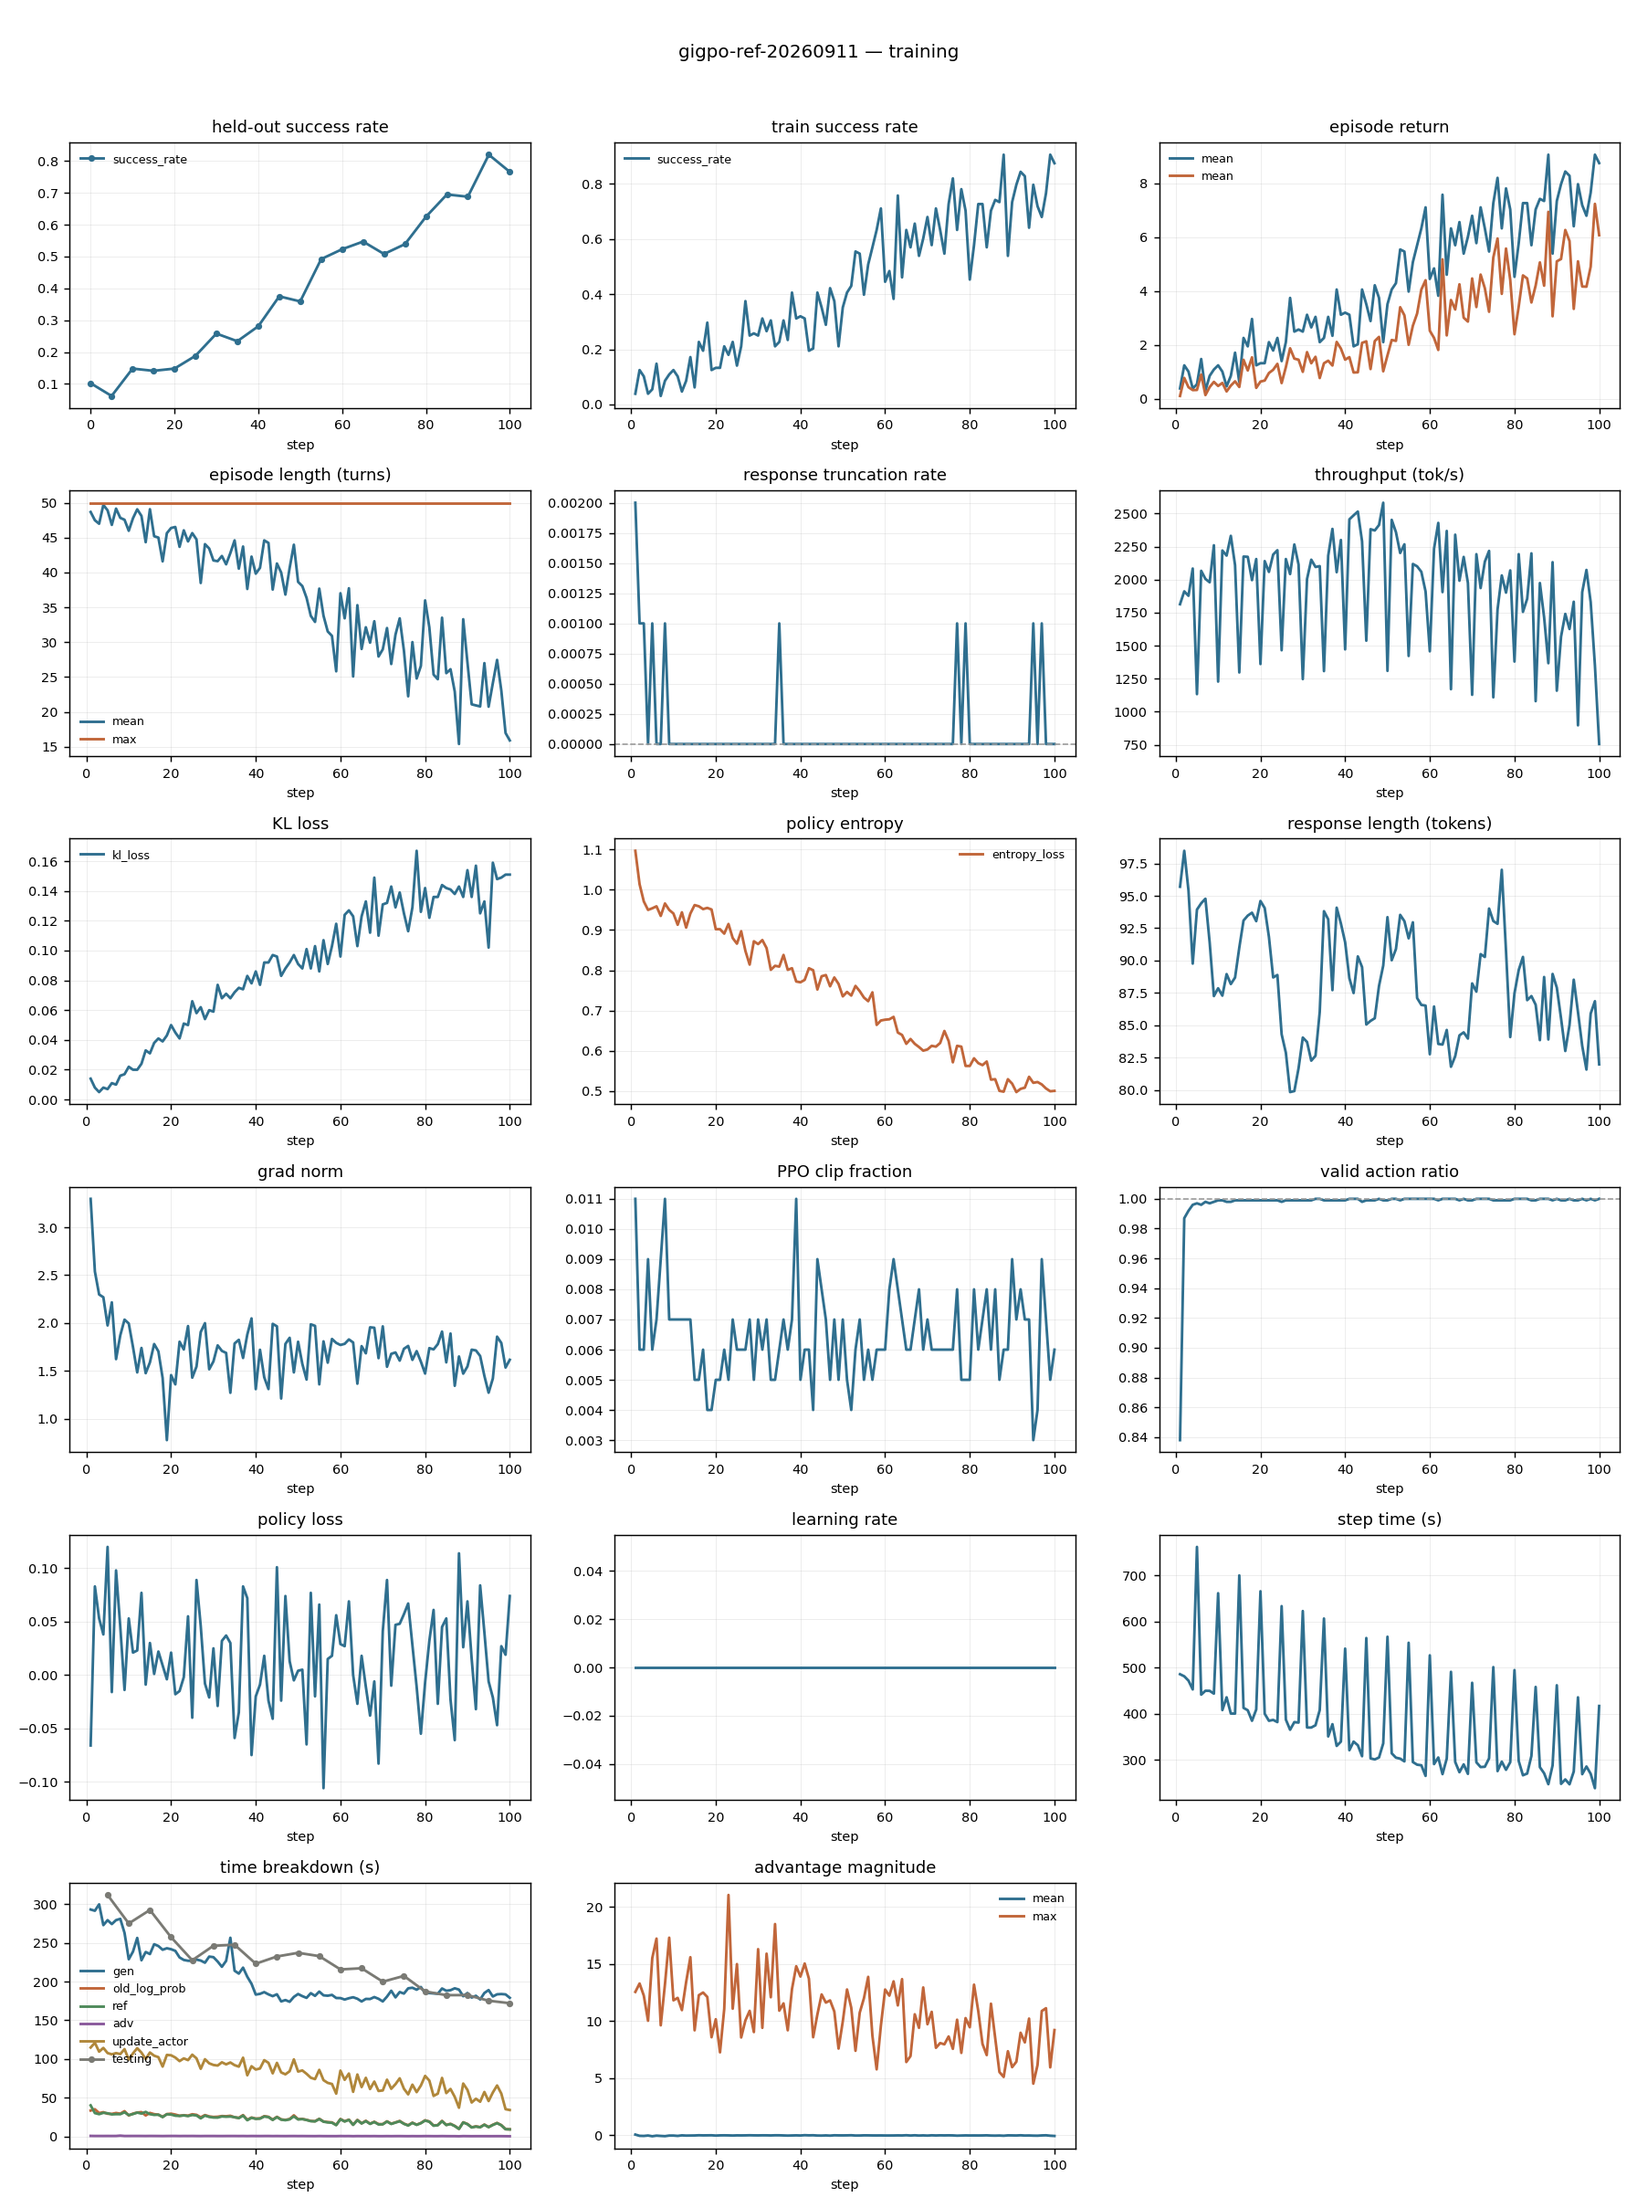
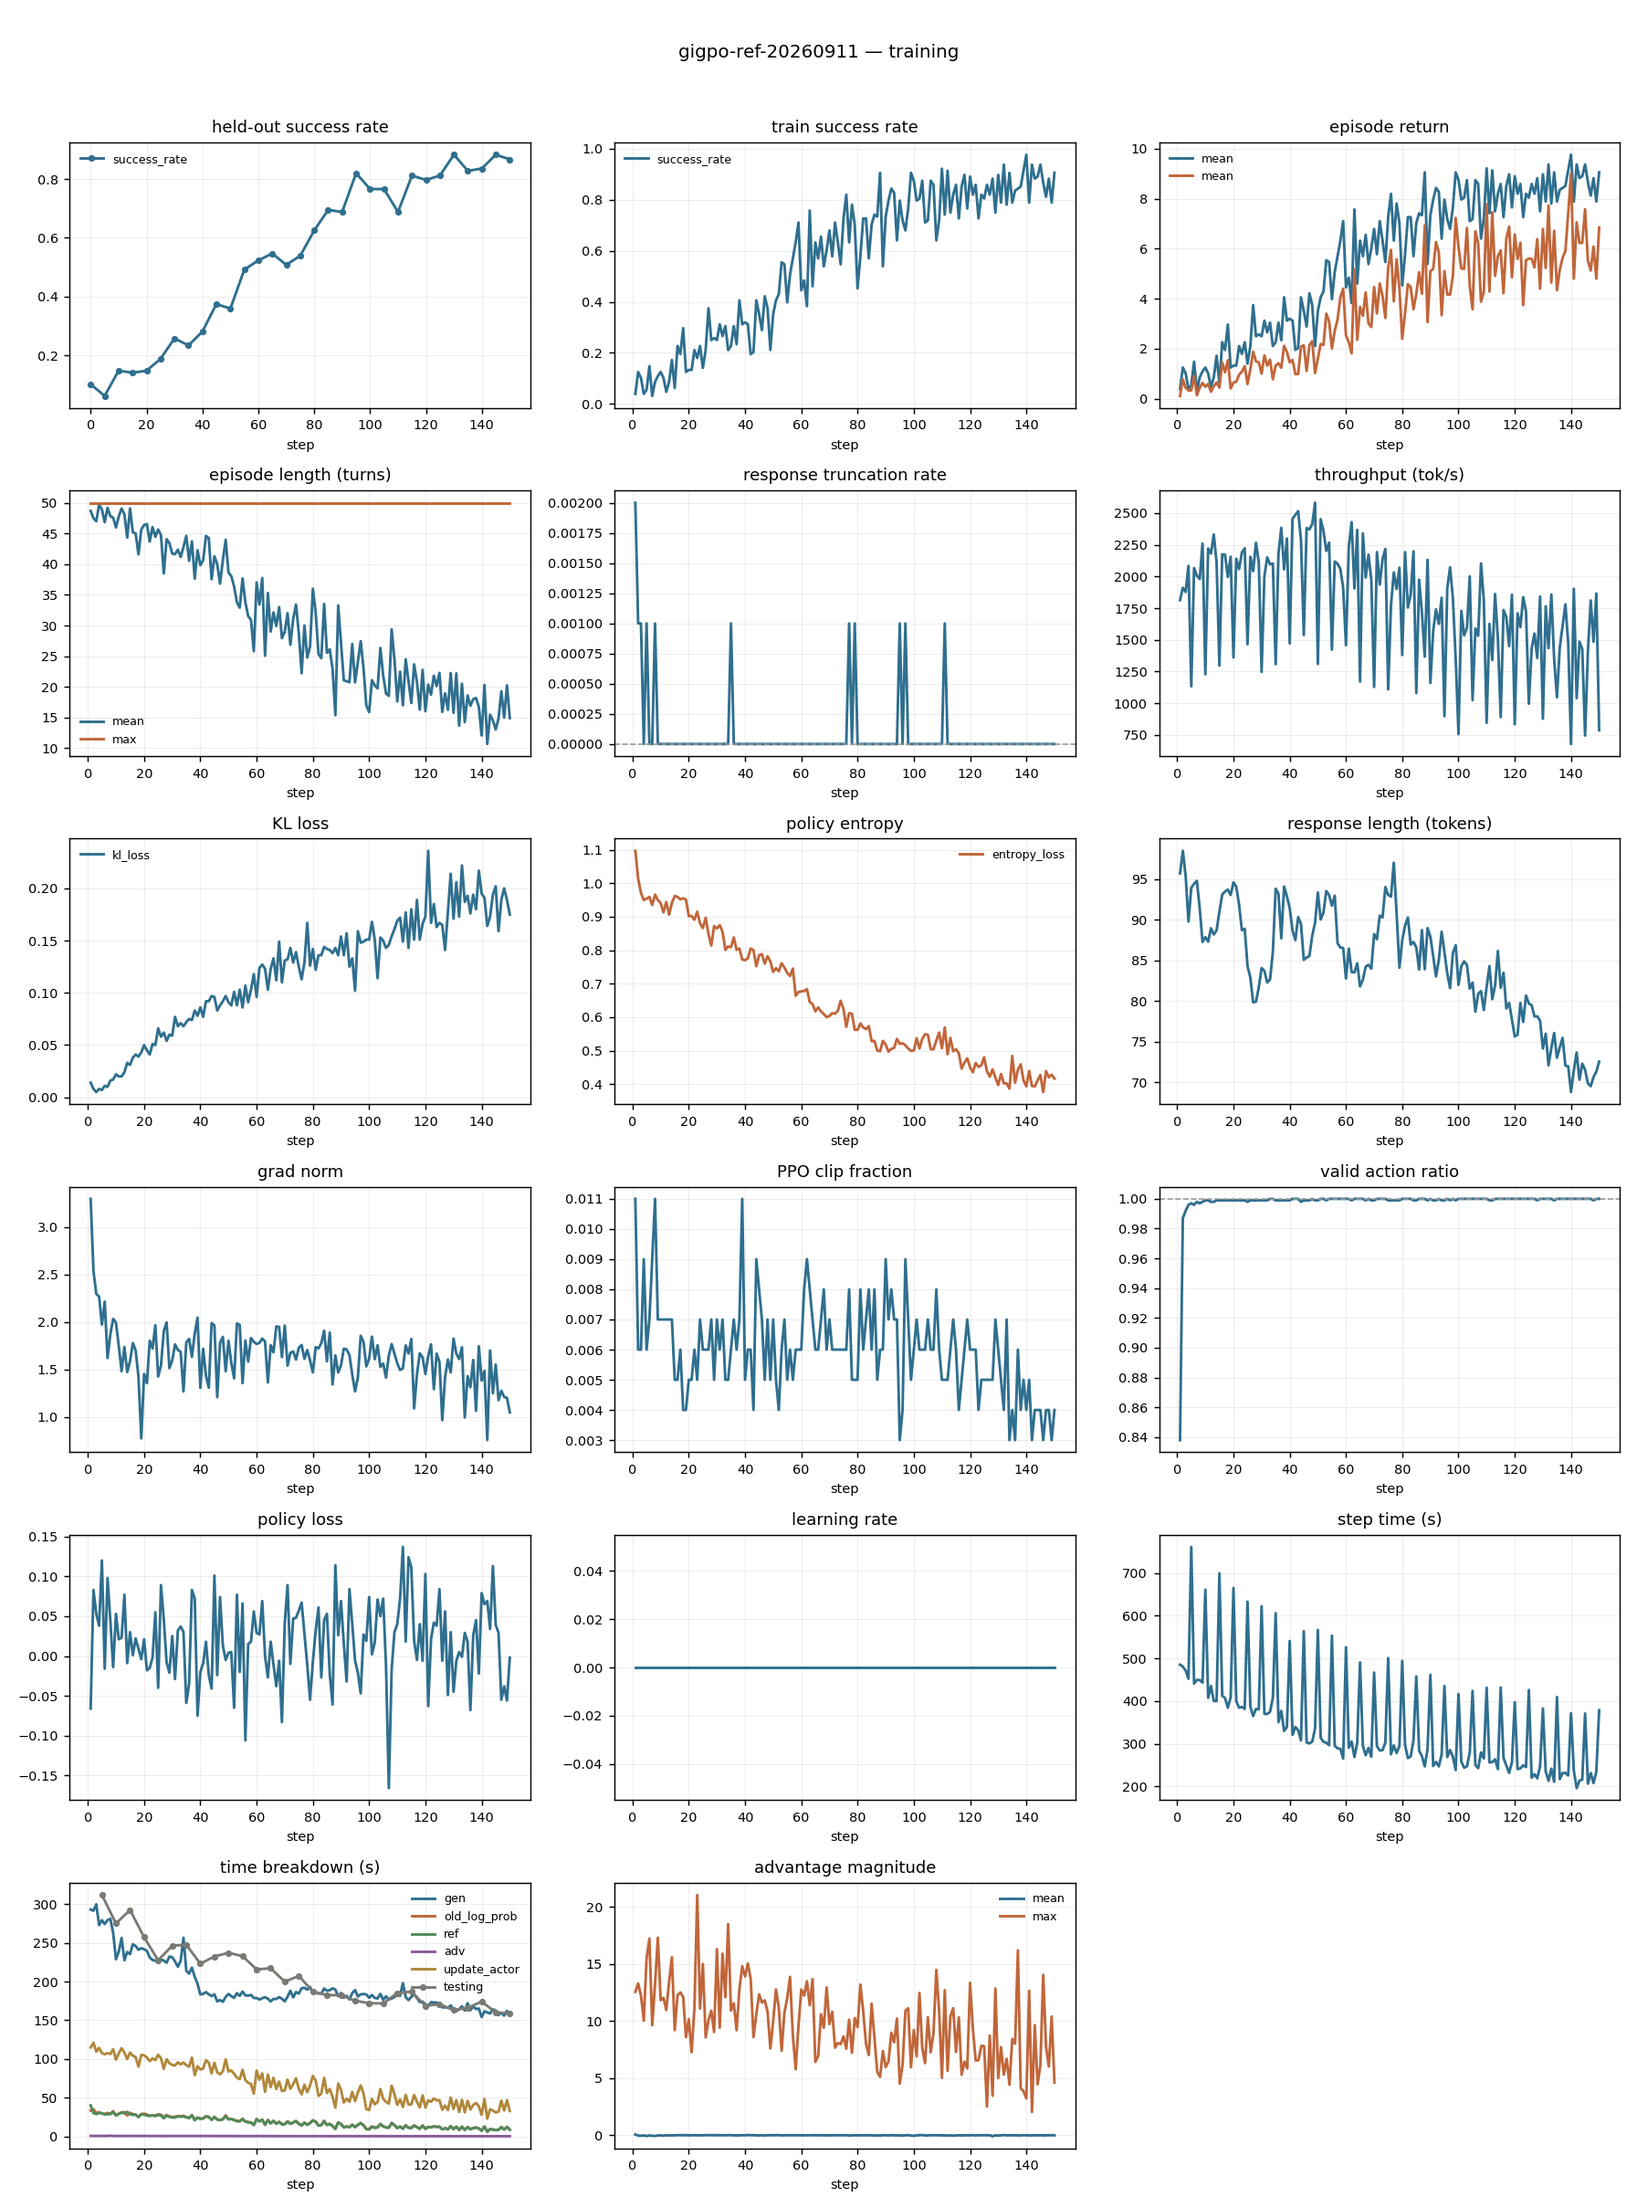
GiGPO reproduced exactly: 86.7 at step 150, matching the paper
GiGPO's own trainer, run on our stack, ends at 86.7 held-out (85.4 over the
window of steps 135-150), equal to the published 86.7. All three baselines now
reproduce on our stack: G2PO 91.4 at 100, HGPO 93.0 at 160, GiGPO 86.7 at 150.
So the harness is faithful, and the 12-point gap between our 79.7 and G2PO at a
matched budget belongs to the method.

step150-best and step150-last point to global_step_150, the better of the two
checkpoints rotation retained (86.7 against 81.2 at step 125); best.json records
the choice. global_step_125 awaits the user's approval to delete.

Claude-Session: https://claude.ai/code/session_017DQU5txeWCnCByqWCPa1CQ

diff --git a/docs/method.html b/docs/method.html
@@ -1113,6 +1113,7 @@ td .m{font-family:"IBM Plex Mono",monospace; font-size:.93em}
         <tr><td class="dim">HGPO &mdash; <b>reproduced</b>, their code, our stack</td><td class="num">100</td><td class="num">79.7</td><td>budget-matched checkpoint of the 160-step run; window 85&ndash;100 = 76.0; <span class="m">hgpo-ref-4gpu-20260910</span></td></tr>
         <tr><td class="dim">HGPO &mdash; <b>reproduced</b>, same run, full protocol</td><td class="num">160</td><td class="num">93.0</td><td>matches published 92.77; window 145&ndash;160 = 91.1</td></tr>
         <tr><td class="dim">GiGPO &mdash; <b>reproduced</b>, their code, our stack</td><td class="num">100</td><td class="num">76.6</td><td>budget-matched checkpoint of the 150-step run; window 85&ndash;100 = 74.2; <span class="m">gigpo-ref-20260911</span></td></tr>
+        <tr><td class="dim">GiGPO &mdash; <b>reproduced</b>, same run, full protocol</td><td class="num">150</td><td class="num">86.7</td><td>matches published 86.7 exactly; window 135&ndash;150 = 85.4</td></tr>
         <tr><td class="dim">GiGPO (published)</td><td class="num">150</td><td class="num">86.7 &plusmn; 1.7</td><td>different budget &mdash; not matched</td></tr>
         <tr style="background:rgba(200,60,50,.07)"><td class="dim"><b>G&sup2;PO &mdash; THEIR TREE, OUR HARDWARE</b></td><td class="num"><b>100</b></td><td class="num"><b>91.4</b></td><td><b>reproduction</b> &mdash; window mean 86.8, peak 95.3 @95; <span class="m">g2po-ref-20260909</span></td></tr>
         <tr class="ourrow"><td class="dim"><b>CCPO &mdash; global gate + edge term</b></td><td class="num"><b>100</b></td><td class="num"><b>79.7</b></td><td><b>ours, 1 seed</b> &mdash; <span class="m">ccpo-global-20260907</span></td></tr>
@@ -1287,9 +1288,10 @@ td .m{font-family:"IBM Plex Mono",monospace; font-size:.93em}
   <p style="margin-top:14px"><b>HGPO reproduced:</b> its own code, unmodified, reaches <b>93.0 at 160
   iterations</b> (published 92.77). At the matched 100-iteration budget it scores 79.7 (window 85&ndash;100:
   76.0), which ties our best arm and sits ~14 points behind G&sup2;PO. So per iteration, G&sup2;PO is the baseline
-  to beat. <b>GiGPO</b> (its own code, running to its published 150 iterations) scores 76.6 at step 100
-  (window 74.2): at this budget GiGPO, HGPO and our best arm form one cluster within noise, and G&sup2;PO sits ~14
-  points above it. <b>Now queued:</b> <span class="m">g2po-harness</span> (paused at step 5,
+  to beat. <b>GiGPO</b> (its own code) reproduces its published <b>86.7 at 150 iterations exactly</b>, and scores
+  76.6 at step 100 (window 74.2). At that budget GiGPO, HGPO and our best arm form one cluster within noise, and
+  G&sup2;PO sits ~14 points above it. With all three baselines reproducing their papers on our stack, the gap
+  is the method's, not the harness's. <b>Now queued:</b> <span class="m">g2po-harness</span> (paused at step 5,
   resumable), then <span class="m">g2po-aff</span> and <span class="m">g2po-affonly</span>. The last is the only
   fully domain-agnostic test: our failure repair and admissible-action key are generic, but our invisible-state
   carry-forward copies G&sup2;PO's ALFWorld strings (<span class="m">"You heat"</span>,

diff --git a/experiments/gigpo-ref-20260911/NOTES.md b/experiments/gigpo-ref-20260911/NOTES.md
@@ -66,3 +66,20 @@ around 50-55 over steps 55-75, then climbed again from step 80.
 Weights: `checkpoints/step100-budget` (snapshot 16:31:06, 19 GB counting links, 2 links
 per shard, so it survives the trainer's rotation at step 150). Pace over the first 100
 steps is ~385 s/step, so the run should end around 22:00, when the queue starts `g2po-aff`.
+
+## FINAL (2026-09-11 20:18): GiGPO reproduces its published number exactly
+
+| held-out % | 105 | 110 | 115 | 120 | 125 | 130 | 135 | 140 | 145 | **150** |
+|---|---|---|---|---|---|---|---|---|---|---|
+| gigpo-ref | 76.6 | 68.8 | 81.2 | 79.7 | 81.2 | 88.3 | 82.8 | 83.6 | 88.3 | **86.7** |
+
+* **Endpoint 86.7 vs published 86.7. Reproduced.** Window 135-150: **85.4**.
+* **Budget-matched at step 100: 76.6** (window 85-100: 74.2), in the HGPO/ccpo-global
+  cluster, ~14-17 points below G2PO.
+* Finished normally (150/150, "Final validation metrics", step-150 checkpoint saved).
+  Wall-clock 14.3 h.
+
+Checkpoints: `step100-budget` (budget-matched), plus `step150-best` = `step150-last` ->
+`global_step_150` (best over the retained 125/150: 81.2 vs 86.7; `best.json` records it).
+`global_step_125` (19 GB) is neither best nor last. As with HGPO's `global_step_140`,
+deleting it waits for the user's OK. `global_step_25`-`_100` hold only `data.pt`.

diff --git a/HANDOFF.md b/HANDOFF.md
@@ -14,11 +14,11 @@ ccpo-global and trailing G2PO's 91.4. Kept: `step100-budget` and `step160-best`/
 **Stopped** — `g2po-harness-resume` at step 6 (2026-09-11, user decision), so the GPUs
 could go to GiGPO.
 
-**Running** — `gigpo-ref-20260911` on GPUs 0-3 since 05:49 (run.sh pid 238169): GiGPO's own
-trainer, unmodified, 150 iters, published 86.7. `step100-budget` is preserved by
-`snapshot_ckpt.sh` (done 16:31, verified 19 GB).
-**Step-100 result (budget-matched): GiGPO 76.6 (window 85-100: 74.2).** At 100 iterations:
-G2PO 90.8 >> ccpo-global 77.2 ≈ HGPO 76.0 ≈ GiGPO 74.2 (windowed). Ends around 22:00.
+**Finished** — `gigpo-ref-20260911`: **86.7 at step 150 (published 86.7), so it is
+reproduced exactly**; window 135-150 is 85.4. Budget-matched at step 100: 76.6 (window 74.2).
+Kept: `step100-budget` and `step150-best`/`-last`. `global_step_125` (19 GB) awaits the
+user's OK to delete, like HGPO's `global_step_140`.
+**All three baselines reproduce on our stack: G2PO 91.4 @100, HGPO 93.0 @160, GiGPO 86.7 @150.**
 
 **Queued** (`scripts/queue_anchor_aff.sh`, waits on GiGPO) — `g2po-aff` -> `g2po-affonly`.
 

diff --git a/experiments/hypothesis.md b/experiments/hypothesis.md
@@ -3346,3 +3346,8 @@ iterations, windowed: **G2PO 90.8 >> ccpo-global 77.2 ≈ HGPO 76.0 ≈ GiGPO 74
 GiGPO/HGPO/ours are within noise of each other; G2PO is the lone outlier, ~14 points up.
 So the question for SOTA at this budget is still what G2PO does that the other three do
 not. `g2po-aff` (queued) isolates the state-grouping part of that.
+
+**GiGPO final (2026-09-11):** 86.7 at step 150 (window 135-150: 85.4) against a published
+86.7, so it reproduces exactly. **All three baselines now reproduce on our stack**: G2PO 91.4
+@100, HGPO 93.0 @160, GiGPO 86.7 @150. So our stack is faithful, and the gap between our
+79.7 and G2PO's 91.4 at matched budget belongs to the method, not the harness.
